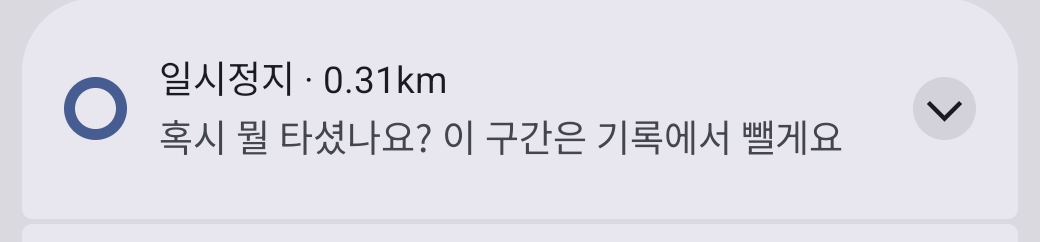
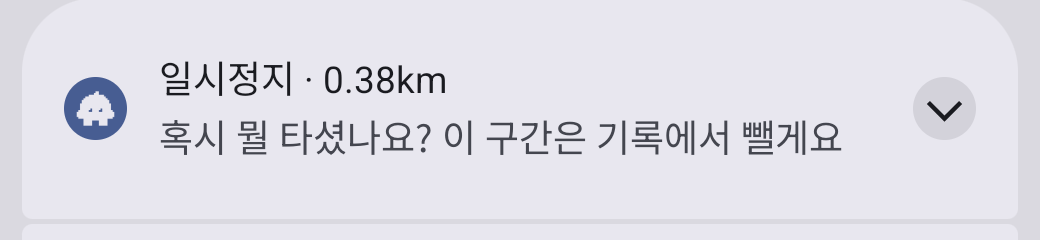
docs: 화면설계서 6판(경로 연두 단계색·알림 작은 아이콘), 디자인 시스템 새 토큰

diff --git a/design/screens/index.html b/design/screens/index.html
@@ -38,9 +38,9 @@
   --ground-line: #B3DB82;
   --stage-ink: #0E5E33;
   --bubble: #FFFFFF;
-  --pace-slow: #3A75D6;
-  --pace-mid: #5C1A5C;
-  --pace-fast: #B35C00;
+  --pace-slow: #679C1C;
+  --pace-mid: #126812;
+  --pace-fast: #14301A;
   --wf-screen: #F8F9F5;
   --wf-block: #D3D9CB;
   --wf-deep: #A8B19F;
@@ -69,7 +69,7 @@
     --ink: #EEF4E6; --muted: #A3AE99; --lime: #B8F04A; --on-lime: #14210A; --lime-edge: #8CC63A; --green: #5DD08A;
     --panel: #E4EDD8; --on-panel: #16200F; --coin: #8FAEFF; --on-coin: #10160D; --danger: #FF8A7A; --danger-soft: #3A1E1A;
     --sky: #1D2C15; --ground: #2A3F1D; --ground-line: #3E5C2A; --stage-ink: #B6EE84; --bubble: #44573A;
-    --pace-slow: #4F7FE8; --pace-mid: #F2C0FA; --pace-fast: #B8641A;
+    --pace-slow: #4D7722; --pace-mid: #61AE13; --pace-fast: #EAF6AC;
     --wf-screen: #1A2117; --wf-block: #34402F; --wf-deep: #55634D; --wf-line: #2C3628;
     --shot-edge: rgba(238, 244, 230, .16);
     color-scheme: dark;
@@ -80,7 +80,7 @@
   --ink: #EEF4E6; --muted: #A3AE99; --lime: #B8F04A; --on-lime: #14210A; --lime-edge: #8CC63A; --green: #5DD08A;
   --panel: #E4EDD8; --on-panel: #16200F; --coin: #8FAEFF; --on-coin: #10160D; --danger: #FF8A7A; --danger-soft: #3A1E1A;
   --sky: #1D2C15; --ground: #2A3F1D; --ground-line: #3E5C2A; --stage-ink: #B6EE84; --bubble: #44573A;
-  --pace-slow: #4F7FE8; --pace-mid: #F2C0FA; --pace-fast: #B8641A;
+  --pace-slow: #4D7722; --pace-mid: #61AE13; --pace-fast: #EAF6AC;
   --wf-screen: #1A2117; --wf-block: #34402F; --wf-deep: #55634D; --wf-line: #2C3628;
   --shot-edge: rgba(238, 244, 230, .16);
   color-scheme: dark;
@@ -352,7 +352,7 @@ section.part { padding-block: 56px 8px; scroll-margin-top: 64px; }
 .badge-row { display: flex; align-items: center; gap: 12px; justify-content: space-between; }
 .badge-row .l { display: flex; gap: 10px; align-items: center; font-weight: 700; }
 .badge-ic { width: 36px; height: 36px; border-radius: 50%; background: var(--sky); box-shadow: inset 0 0 0 3px var(--line-strong); display: grid; place-items: center; }
-.badge-ic svg { width: 18px; height: 18px; fill: var(--pace-fast); }
+.badge-ic svg { width: 18px; height: 18px; fill: #A8761A; }
 
 /* ---------- 촬영 메모 ---------- */
 .notes { display: grid; grid-template-columns: repeat(2, minmax(0, 1fr)); gap: 14px; }
@@ -404,7 +404,7 @@ dialog.zoom button { min-height: 44px; min-width: 44px; border-radius: 999px; bo
   <div class="wrap">
     <div class="cover-grid">
       <div>
-        <div class="eyebrow"><span class="tag">화면설계서</span><span class="tag">v0.3.0 베타</span><span class="tag">2026-10-23 갱신</span></div>
+        <div class="eyebrow"><span class="tag">화면설계서</span><span class="tag">v0.3.0 베타</span><span class="tag">2026-10-23 6판</span></div>
         <h1>런마고치<br><span class="hl">화면설계서</span></h1>
         <p class="lede">달린 거리만큼 도트 친구가 자라는 러닝 앱. 실제 앱을 에뮬레이터에서 돌려 찍은 화면으로 모든 화면과 상태, 화면 사이 이동, 요소별 규칙을 한 장에 정리했어요.</p>
         <dl class="meta">
@@ -590,9 +590,9 @@ dialog.zoom button { min-height: 44px; min-width: 44px; border-radius: 999px; bo
         </div>
         <div class="spec">
           <h3>경로 페이스·구간 막대 <code>RoutePaceLegend · SplitPaceChart</code></h3>
-          <div class="legend"><span><i style="background:var(--pace-slow)"></i>느림</span><span><i style="background:var(--pace-mid)"></i>보통</span><span><i style="background:var(--pace-fast)"></i>빠름</span><span><i style="background:var(--muted)"></i>빠른 이동</span></div>
+          <div class="legend"><span><i style="background:var(--pace-slow)"></i>천천히</span><span><i style="background:var(--pace-mid)"></i>보통</span><span><i style="background:var(--pace-fast)"></i>빠르게</span><span><i style="background:var(--muted)"></i>빠른 이동 · 제외</span></div>
           <div class="splits" aria-label="구간 막대 예시"><i style="height:44%"></i><i style="height:48%"></i><i style="height:78%"></i><i style="height:78%"></i><i style="height:58%"></i><i style="height:80%"></i><i class="part" style="height:86%"></i></div>
-          <p class="use">경로는 1km 구간마다 느림·보통·빠름 세 색. 색약 흉내에서도 서로 떨어지는 파랑·자주·주황이고 범례를 늘 함께 둔다. 1km 미만 마지막 구간은 흐리게.</p>
+          <p class="use">경로는 1km 구간마다 천천히·보통·빠르게 세 단계, 연두 한 계열이에요(라이트는 연한 연두 → 짙은 초록 → 거의 검정 초록, 다크는 짙은 연두 → 연두 → 연한 노랑연두). 색약 흉내에서도 서로 떨어지게 골랐고 범례를 늘 함께 두며, 쓰인 단계만 보여요. 1km 미만 마지막 구간은 흐리게.</p>
         </div>
       </div>
     </div>
@@ -612,7 +612,7 @@ dialog.zoom button { min-height: 44px; min-width: 44px; border-radius: 999px; bo
             <li>Android: AVD <code>runmagochi</code>(Pixel 7, Android 16 · API 36), 릴리스 빌드 0.3.0 베타. 상태바는 시스템 데모 모드로 9:41 고정. 글꼴은 앱에 번들한 서브셋(Runmagochi Sans)을 이 페이지에도 씀.</li>
             <li>iPhone: iPhone 16 Pro 시뮬레이터(iOS 18.6), 디버그 빌드에서 디버그 띠를 끄고 찍음.</li>
             <li>예시 데이터: 2025-11 ~ 2026-10 러닝 33회를 백업 6판 형식으로 만들어 설정 › 가져오기로 넣음(앱은 7판까지 읽음). 게임 규칙대로 경험치·코인·배지를 맞춰 Lv.9, 배지 9개, 코인 315 에서 시작.</li>
-            <li>2026-10-23 다시 찍은 러닝(작업 27 뒤 빌드): 젤리로 목표 3km, 45초 멈춤(자동 일시정지) → 초속 7m 40초(탈것 의심, 그 구간 빠짐) → 3.22km(Lv.9→10, 배지 목표 달성 30번). 앞 판의 목표 7km 신호 끊김 자동 종료 러닝(1.23km)은 요약 미달(17)과 알림(39b·39d·39e)에 남아요. 위치 서비스 꺼짐(13c·39c)은 도토리로 짧게 따로. 모두 가상 GPS(여의도 둘레 고리 경로).</li>
+            <li>2026-10-23 다시 찍은 러닝(작업 27 뒤 빌드): 젤리로 목표 3km, 45초 멈춤(자동 일시정지) → 초속 7m 40초(탈것 의심, 그 구간 빠짐) → 3.22km(Lv.9→10, 배지 목표 달성 30번). 2026-10-23 저녁(작업 29 뒤 빌드) 다시 찍은 것: 요약·잘라내기·공유(16·18·19)·기록 상세(25)·다크 요약(43)과 알림 36·38·39b~39e. 요약 미달(17)과 알림 39b·39d·39e 는 목표 7km 러닝을 45초 멈춤 → 초속 7m 탈것 → 위치 서비스 끄기로 자동 종료시켜 찍음(1.30km). 기록 상세 25 는 예시 백업의 10-21 러닝, 다크 요약 43 은 위 3.22km 러닝을 기록에서 열어 찍음. 위치 서비스 꺼짐(13c·39c)은 도토리로 짧게 따로. 모두 가상 GPS(여의도 둘레 고리 경로).</li>
             <li>캐릭터: 아이템 없이 기본 3종을 종류·이름만 다른 예시 백업 3개(삐약이·말랑이·토리)로 나눠 찍음. 병아리 = 홈·목표 시트·아바타·다크 러닝, 젤리 = 러닝 중·일시정지·요약·공유·iPhone 아바타, 도토리 = 첫 실행·상점·위치 꺼짐·다크 홈·아바타·상점·iPhone 홈·러닝.</li>
             <li>첫 실행·첫날 홈은 앱 데이터를 지운 상태(10-23, 캐릭터는 무작위로 꼬마 도토리가 나올 때까지 다시), 빈 상태(기록·코인 내역)·권한 안내는 10-22 새로 설치한 상태에서 찍음. 무대가 없는 화면(기록·업적·코인 내역·권한 안내)은 10-22 촬영을 그대로 둠.</li>
           </ul>
@@ -621,7 +621,7 @@ dialog.zoom button { min-height: 44px; min-width: 44px; border-radius: 999px; bo
           <h3>찍으면서 본 것</h3>
           <ul>
                         <li><span class="sev">확인 필요</span>위치 서비스를 끄면 대개 빨강 카드 하나 "위치 서비스가 꺼져 있어요. 켜면 이어서 기록해요"(13c, 알림 39c)인데, 3.2km 러닝 끝에서 끈 한 번은 카드 없이 옛 신호 끊김 말풍선과 알림 "신호가 끊겼어요" 가 떴어요(간헐).</li>
-                        <li><span class="sev">관찰</span>알림 작은 아이콘이 빈 동그라미로 보여요. 앱 아이콘 모양 단색 아이콘을 두면 알림창에서 더 잘 알아봐요.</li>
+                        <li><span class="sev">고쳐짐</span>알림 작은 아이콘이 빈 동그라미였던 것을 병아리 실루엣으로 바꿨어요(작업 29). 36·38·39b~39e 를 다시 찍었고, 목표 달성(37)과 종료 예고(39)는 아직 이전 아이콘이에요.</li>
             <li><span class="sev">관찰</span>공유 카드는 시스템 공유 창 미리보기에서 잘라냈어요. 오른쪽 아래 연필은 Android 의 편집 버튼이에요. 알림은 알림창에서 앱 카드만 잘라냈어요.</li>
             <li><span class="sev">고쳐짐</span>10-22 에 적은 목표 달성 알림 남음, 잘라내기 슬라이더 연두 채움, 카운트다운 중 탭바, 위치 영구 거부 안내(05b), 첫 위치 튐 직선은 고쳐진 것을 확인했어요.</li>
           </ul>
@@ -673,7 +673,7 @@ dialog.zoom button { min-height: 44px; min-width: 44px; border-radius: 999px; bo
     ]},
     { k: 'D', t: '러닝 요약', reqs: ['F3', 'F6', 'F7', 'F16', 'F19', 'F21'], items: [
       ['16', '16-summary-levelup', '요약 · 레벨 업', '젤리 · Lv.9→10 · 목표 달성 · 새 배지', '긴 화면'],
-      ['17', '17-summary-missed', '요약 · 목표 미달', '신호 끊김 자동 종료 · 7km까지 5.77km'],
+      ['17', '17-summary-missed', '요약 · 목표 미달', '신호 끊김 자동 종료 · 7km까지 5.70km'],
       ['18', '18-summary-trim', '끝부분 잘라내기', '끝 시각 당기기 시트'],
       ['19', '19-share-card-crop', '공유 카드', '젤리 · 1080×1350 카드 · 공유 창 미리보기'],
     ]},
@@ -854,7 +854,7 @@ dialog.zoom button { min-height: 44px; min-width: 44px; border-radius: 999px; bo
     { id: 'd-summary', img: '16-summary-levelup-full', long: true, route: '일시정지 › 길게 눌러 종료', title: '러닝 요약', reqs: ['F3', 'F6', 'F7', 'F16', 'F19', 'F21'],
       desc: '기록과 성장(경험치·레벨 업·배지·코인)을 한 화면에서 보여 줘요. 이 예시는 Lv.9 → 10, 새 외형 단계, 목표 3km 달성, 배지 "목표 달성 30번".',
       pins: [[84, 4.8], [50, 18.3], [82, 32.3], [16, 38.2], [22, 45], [50, 51], [50, 60.6], [50, 75], [50, 85], [50, 93.3], [50, 96.6]],
-      els: [['공유', '카드 이미지를 만들어 시스템 공유 창'], ['성장 카드', '레벨 업! · 이전→지금 레벨 · 새 외형 단계 알약 · 8배 무대'], ['경험치·코인 줄', '거리 경험치, 목표 보너스. 줄마다 `코인 +N`'], ['배지 줄', '새로 받은 배지와 코인'], ['날짜·이름·거리', '요일·시간대로 지은 이름, 거리 64'], ['지표 카드', '평균 페이스 · 시간 · 칼로리'], ['경로', '1km 구간마다 느림·보통·빠름 색 + 범례. 시작 연두, 끝 검정 점'], ['구간 막대', '평균선 위아래 막대, 1km 미만 마지막 구간은 흐리게'], ['구간 표', 'km · 페이스'], ['끝부분 잘라내기', '흰 보조 버튼'], ['확인', '홈으로']],
+      els: [['공유', '카드 이미지를 만들어 시스템 공유 창'], ['성장 카드', '레벨 업! · 이전→지금 레벨 · 새 외형 단계 알약 · 8배 무대'], ['경험치·코인 줄', '거리 경험치, 목표 보너스. 줄마다 `코인 +N`'], ['배지 줄', '새로 받은 배지와 코인'], ['날짜·이름·거리', '요일·시간대로 지은 이름, 거리 64'], ['지표 카드', '평균 페이스 · 시간 · 칼로리'], ['경로', '1km 구간마다 천천히·보통·빠르게 연두 단계색 + 범례. 시작 연두, 끝 검정 점'], ['구간 막대', '평균선 위아래 막대, 1km 미만 마지막 구간은 흐리게'], ['구간 표', 'km · 페이스'], ['끝부분 잘라내기', '흰 보조 버튼'], ['확인', '홈으로']],
       variants: [['17-summary-missed', '목표 미달'], ['18-summary-trim', '잘라내기'], ['19-share-card-crop', '공유 카드'], ['19-share-card', '시스템 공유 창']],
       ix: ['잘라내기 시트에서 끝 시각을 당기면 거리·시간·경험치·목표 판정을 다시 매김', '미달이면 "목표 10km까지 8.44km 남았어요" 처럼 남은 양', '빠른 구간이 있으면 "빠른 이동 1.20km는 경험치에서 뺐어요"'] },
     { id: 'd-history', img: '20-history-week', route: '탭 › 기록', title: '기록', reqs: ['F5', 'F5-2'],
@@ -866,7 +866,7 @@ dialog.zoom button { min-height: 44px; min-width: 44px; border-radius: 999px; bo
     { id: 'd-detail', img: '25-run-detail-full', long: true, route: '기록 › 러닝 누름', title: '기록 상세', reqs: ['F5', 'F16'],
       desc: '러닝 요약과 같은 화면이에요. 성장 카드 대신 목표 결과 한 줄이 오고, 맨 아래에 기록 삭제가 붙어요.',
       pins: [[50, 11.6], [84, 6.2], [50, 41.6], [50, 76.6], [50, 90.1]],
-      els: [['목표 결과', '목표 30분 달성 · 보너스 +25'], ['공유', '요약과 같음'], ['경로', '구간 페이스 색'], ['구간 표', '7개 구간'], ['기록 삭제', '빨강 글자 버튼. 확인을 받은 뒤 지움']],
+      els: [['목표 결과', '목표 30분 달성 · 보너스 +25'], ['공유', '요약과 같음'], ['경로', '구간 페이스 색(연두 단계) + 범례'], ['구간 표', '7개 구간'], ['기록 삭제', '빨강 글자 버튼. 확인을 받은 뒤 지움']],
       variants: [['43-dark-summary', '다크']],
       ix: ['지워도 받은 경험치·코인·배지는 남음', '끝부분 잘라내기는 러닝 직후 요약에서만'] },
     { id: 'd-avatar', img: '26-avatar-full', long: true, route: '탭 › 아바타', title: '아바타', reqs: ['F7', 'F18', 'F19'],

diff --git a/HANDOFF.md b/HANDOFF.md
@@ -7,7 +7,7 @@
 - **페이즈 6 관문 3 고칠 점 대기** (`docs/plans/phase-6.md` 작업 20~29 완료, 상태 `실행`)
   - 관문 1 A 말랑 클레이, 관문 2 c · 캔버스(연두, 사각 무대, 결정 0029). 작업 1~19 완료, 자동 확인·E2E 6개 통과, 최종 리뷰 Ready with minors(수정 b9ce74e~4e4a7b2, 테스트 1231 통과)
   - 산출물 아티팩트: 화면설계서 https://claude.ai/artifact/456dWcNyLn1vbUsjV9FLVc (원본 `design/screens/`), 디자인 시스템 https://claude.ai/artifact/FPihTBfX2CJserHVwUQ514 , 에셋 카탈로그 https://claude.ai/artifact/ECbG2Fh4TXQwcr5fNUWCXA , UI 비교 https://claude.ai/artifact/F5MsvhPE9fAXw5YtCwe3Xc
-  - 작업 29(관문 3 결정 3건): 경로 범례 보라 제거(연두 한 계열 3단, `천천히`·`보통`·`빠르게`·`빠른 이동 · 제외`), 라이트 스플래시 타일 `primary-edge` 테두리, 안드로이드 알림 작은 아이콘 `ic_stat_chick`(병아리 실루엣). 화면설계서 스크린샷은 사용자가 다시 찍는다
+  - 작업 29(관문 3 결정 3건): 경로 범례 보라 제거(연두 한 계열 3단, `천천히`·`보통`·`빠르게`·`빠른 이동 · 제외`), 라이트 스플래시 타일 `primary-edge` 테두리, 안드로이드 알림 작은 아이콘 `ic_stat_chick`(병아리 실루엣). 화면설계서는 6판(2026-10-23)으로 경로 화면(16·17·18·19·25·43)과 알림(36·38·39b~39e)을 다시 찍어 갱신, 디자인 시스템 아티팩트 13판. 알림 37(목표 달성)·39(종료 예고)와 iOS 52 는 이전 컷이라 이전 아이콘·옛 경로색 그대로
   - 관문 3 고칠 점 반영: 화면 모드 설정, 목표 한 줄+시트, 다크 얇은 테두리, 공원 길 배경, 어뷰징·위치 처리(결정 0033), E2E 로 찾은 결함 8개 수정
   - iOS: 회사 Mac(Xcode 16.4)으로 iPhone 16 Pro(iOS 27.0.1)에 릴리스 설치. 무료 서명이라 10-29 무렵 재설치(`docs/ios.md`). 서명 팀은 저장소에 커밋하지 않는다. 임시 작업 폴더 `~/personal/runmagochi-merge-check`(서명 팀 넣은 pbxproj, 재설치용)
   - 확장 백로그에 로그인·서버(F22, 결정 0032)
@@ -17,7 +17,7 @@
 
 ## 다음 할 일
 
-1. **관문 3 다시** (작업 20~29 완료, 화면설계서 4판 https://claude.ai/artifact/456dWcNyLn1vbUsjV9FLVc). 사용자가 승인하면 `/phase 6` 이 완료 판정
+1. **관문 3 다시** (작업 20~29 완료, 화면설계서 6판 https://claude.ai/artifact/456dWcNyLn1vbUsjV9FLVc). 사용자가 승인하면 `/phase 6` 이 완료 판정
 2. 판단 남은 것: 1단계 알 모자, 첫 실행 1쪽 빈 하늘, 스프라이트 움직임 줄이기, **아이템 에셋 검토(사용자: 아직 예쁘지 않음, Claude Design 캔버스에서 별도)**
 3. 앱 결함 후보(미확인): 러닝 끝부분(탈것 의심 뒤)에 위치를 끄면 GPS 꺼짐 카드 대신 신호 끊김 말풍선이 뜸, 상점은 늘 아이템 하나를 미리보기로 입혀 맨 캐릭터를 못 봄
 4. iPhone 재설치: 사용자가 기기를 다시 연결하면 최신 main 빌드로(`docs/ios.md`, 임시 worktree `~/personal/runmagochi-merge-check`). 무료 서명 만료 10-29 무렵
